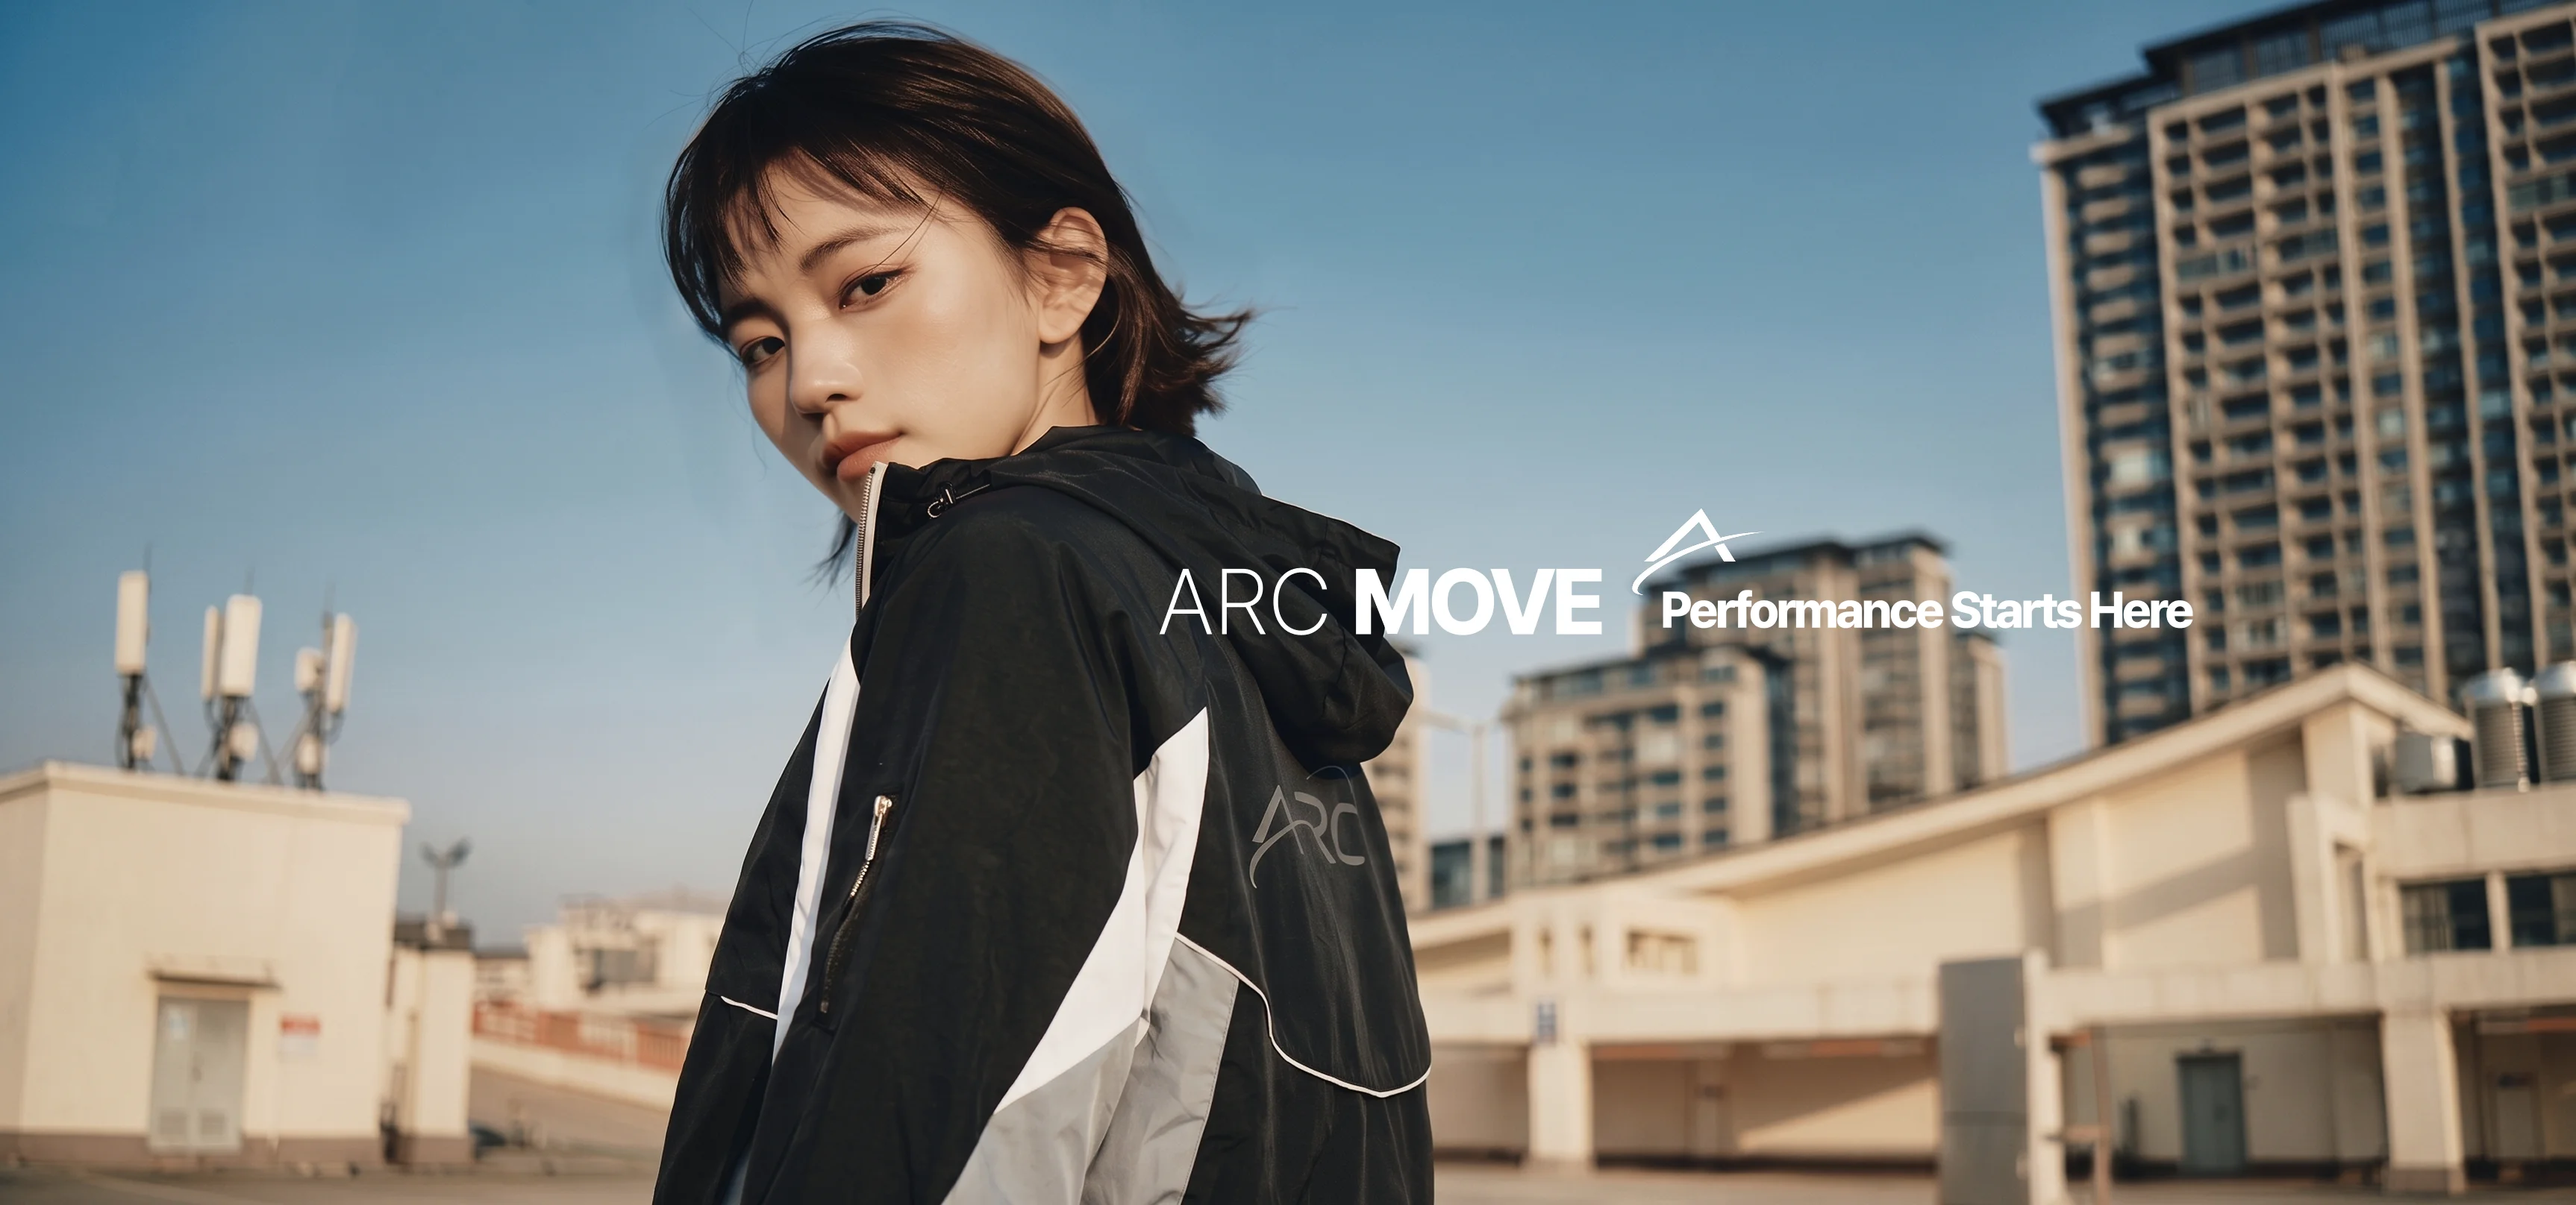
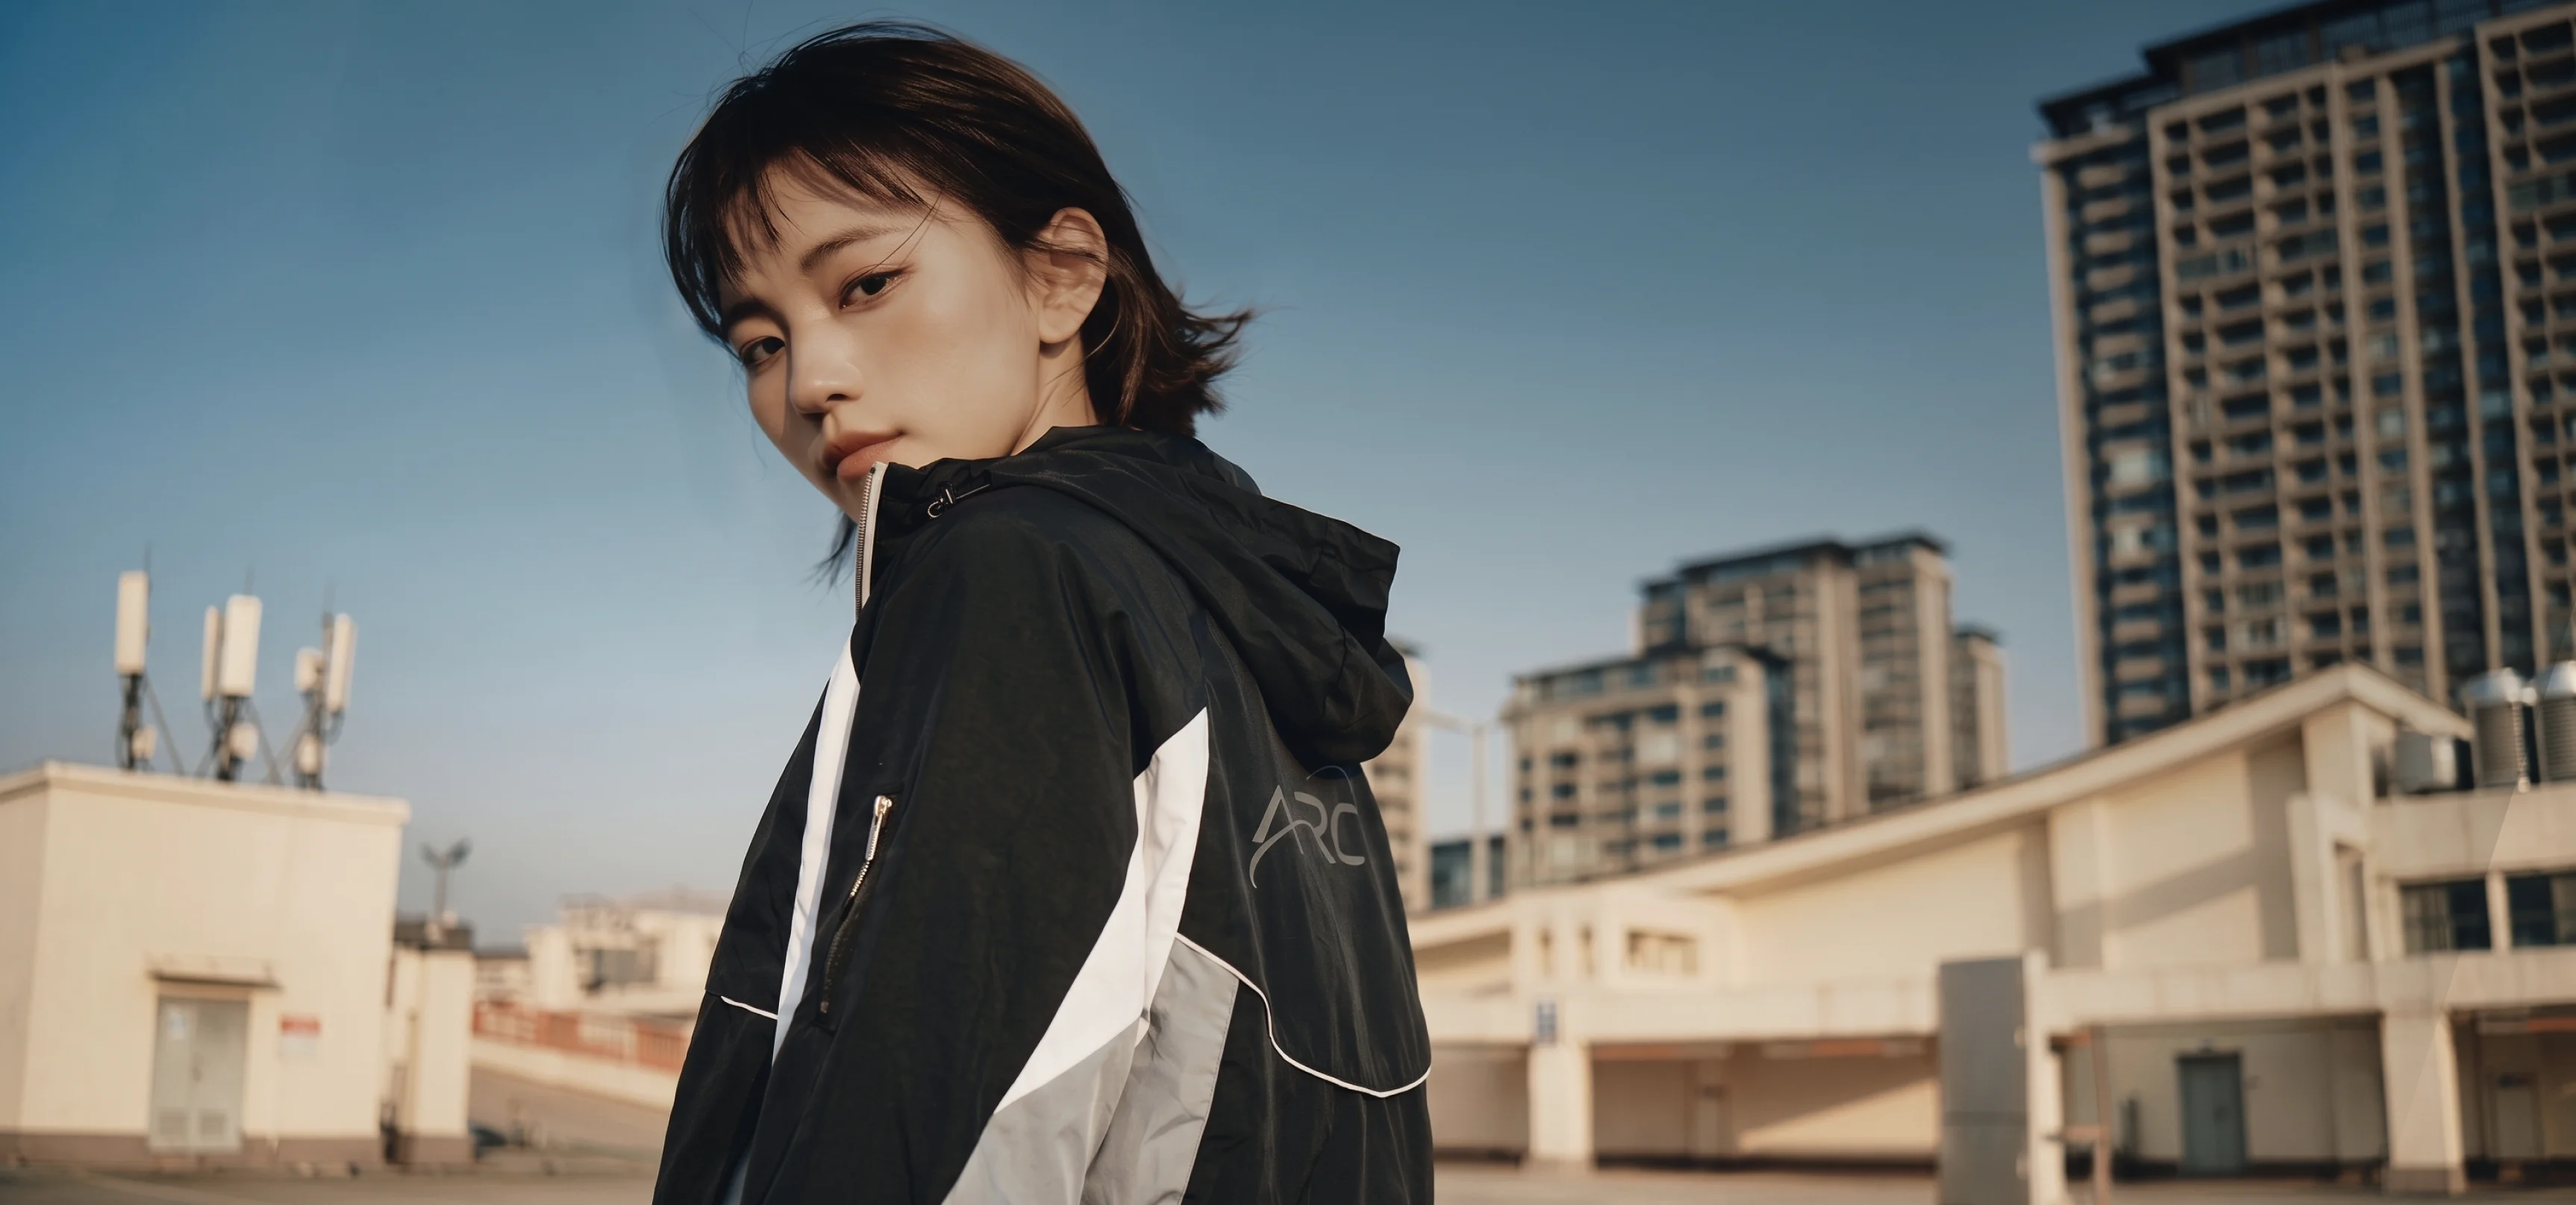
feat: 히어로 배너 모바일/태블릿 반응형 레이아웃 및 데스크톱 로고 락업 추가

Changed region(s): [[0.093, 0.0, 1.0, 0.7116]]

diff --git a/src/styles/hero.css b/src/styles/hero.css
@@ -130,7 +130,7 @@
   object-fit: cover;
   object-position: bottom;
   -webkit-mask-image: linear-gradient(to bottom, transparent 0%, #000 10%, #000 100%);
-  mask-image: linear-gradient(to bottom, transparent 0%, #000 70%, #000 100%);
+  mask-image: linear-gradient(to bottom, transparent 0%, #000 90%, #000 100%);
 }
 
 .hero__band-lead {
@@ -192,4 +192,318 @@
   font-size: 42px;
   font-weight: 700;
   line-height: 46px;
+}
+
+.hero__logo {
+  display: none;
+}
+
+/* Desktop brand lockup — positioned to match hero_main.webp's (soon-to-be-removed) baked-in text */
+.hero__logo-desktop {
+  position: absolute;
+  left: 555px;
+  top: 300px;
+  z-index: 5;
+  display: flex;
+  align-items: center;
+  gap: 14px;
+  color: #fff;
+}
+
+.hero__logo-desktop-brand {
+  font-size: 46px;
+  font-weight: 400;
+  letter-spacing: -0.01em;
+}
+
+.hero__logo-desktop-word {
+  margin-left: -8px;
+  font-size: 46px;
+  font-weight: 800;
+}
+
+.hero__logo-desktop-icon {
+  width: 46px;
+  height: 38px;
+}
+
+.hero__logo-desktop-tagline {
+  font-size: 26px;
+  font-weight: 700;
+}
+
+/* Desktop brand lockup — positioned to match hero_main_two.webp's (soon-to-be-removed) baked-in text */
+.hero__logo-slide2 {
+  position: absolute;
+  left: 80px;
+  top: 175px;
+  z-index: 5;
+  display: flex;
+  flex-direction: column;
+  align-items: flex-start;
+  gap: 6px;
+  color: #fff;
+}
+
+.hero__logo-slide2-icon {
+  width: 46px;
+  height: 38px;
+  margin-left: 130px;
+}
+
+.hero__logo-slide2-row {
+  display: flex;
+  align-items: center;
+  gap: 16px;
+}
+
+.hero__logo-slide2-word {
+  font-size: 46px;
+  font-weight: 800;
+  text-transform: uppercase;
+}
+
+.hero__logo-slide2-divider {
+  align-self: stretch;
+  width: 2px;
+  background: rgba(255, 255, 255, 0.6);
+}
+
+.hero__logo-slide2-tagline {
+  display: flex;
+  flex-direction: column;
+  margin: 0;
+  font-size: 20px;
+  font-weight: 500;
+  line-height: 1.25;
+  text-transform: uppercase;
+}
+
+/* Tablet + mobile: dedicated layout instead of the desktop scale-to-fit */
+@media (max-width: 1023px) {
+  .hero {
+    aspect-ratio: unset;
+  }
+
+  .hero__logo-desktop,
+  .hero__logo-slide2 {
+    display: none;
+  }
+
+  .hero__stage {
+    position: static;
+    width: 100%;
+    height: 100%;
+    transform: none !important;
+  }
+
+  .hero__bg {
+    width: 100%;
+  }
+
+  .hero__bg-slide:nth-child(2) {
+    inset: 0;
+    height: 100%;
+  }
+
+  .hero__bg-img {
+    left: 0;
+    top: 0;
+    width: 100%;
+    height: 100%;
+    max-width: none;
+    object-fit: cover;
+  }
+
+  .hero__logo {
+    display: flex;
+    position: absolute;
+    left: 50%;
+    z-index: 5;
+    flex-direction: column;
+    align-items: center;
+    gap: 6px;
+    color: #fff;
+    transform: translate(-50%, -50%);
+  }
+
+  .hero__logo-icon {
+    display: block;
+  }
+
+  .hero__logo-row {
+    display: flex;
+    align-items: center;
+    gap: 12px;
+  }
+
+  .hero__logo-word {
+    font-weight: 800;
+    text-transform: uppercase;
+  }
+
+  .hero__logo-tagline {
+    display: flex;
+    flex-direction: column;
+    margin: 0;
+    font-weight: 500;
+    line-height: 1.25;
+    text-transform: uppercase;
+  }
+
+  .hero__band-proof {
+    display: none;
+  }
+
+  .hero__band-sub {
+    left: auto;
+    margin: 0;
+    text-align: right;
+    transform: none;
+  }
+
+  .hero__dots {
+    right: 16px;
+    bottom: 16px;
+    gap: 8px;
+  }
+}
+
+@media (max-width: 767px) {
+  .hero {
+    height: 520px;
+    background: #000;
+  }
+
+  .hero__bg {
+    height: 100%;
+  }
+
+  .hero__bg-img {
+    object-position: 35% 15%;
+  }
+
+  .hero__bg-slide:nth-child(2) .hero__bg-img {
+    top: 0;
+    left: 0;
+    width: 100%;
+    height: 100%;
+    object-position: center top;
+  }
+
+  .hero__logo {
+    top: 45%;
+  }
+
+  .hero__logo-icon {
+    width: 28px;
+    height: 23px;
+  }
+
+  .hero__logo-word {
+    font-size: 26px;
+    line-height: 26px;
+  }
+
+  .hero__logo-divider {
+    height: 30px;
+  }
+
+  .hero__logo-tagline {
+    font-size: 11px;
+    letter-spacing: 0.02em;
+  }
+
+  .hero__band {
+    height: 230px;
+    clip-path: polygon(0 42%, 100% 10%, 100% 100%, 0 100%);
+  }
+
+  .hero__band-lead {
+    left: 20px;
+    bottom: 22px;
+    font-size: 26px;
+    line-height: 30px;
+    letter-spacing: 0;
+  }
+
+  .hero__band-sub {
+    right: 20px;
+    bottom: 16px;
+    font-size: 12px;
+    line-height: 16px;
+  }
+
+  .hero__dots {
+    bottom: 40px;
+  }
+}
+
+@media (min-width: 768px) and (max-width: 1023px) {
+  .hero {
+    height: 560px;
+    background: #000;
+  }
+
+  .hero__bg {
+    height: 100%;
+  }
+
+  .hero__bg-img {
+    object-position: center 100%;
+  }
+
+  .hero__bg-slide:nth-child(2) .hero__bg-img {
+    top: 0;
+    left: 0;
+    width: 100%;
+    height: 100%;
+    object-position: center top;
+  }
+
+  .hero__logo {
+    top: 47%;
+  }
+
+  .hero__logo-icon {
+    width: 34px;
+    height: 28px;
+  }
+
+  .hero__logo-word {
+    font-size: 30px;
+    line-height: 30px;
+  }
+
+  .hero__logo-divider {
+    height: 34px;
+  }
+
+  .hero__logo-tagline {
+    font-size: 13px;
+    letter-spacing: 0.02em;
+  }
+
+  .hero__band {
+    height: 270px;
+    clip-path: polygon(0 40%, 100% 12%, 100% 100%, 0 100%);
+  }
+
+  .hero__band-lead {
+    left: 32px;
+    bottom: 30px;
+    font-size: 32px;
+    line-height: 36px;
+  }
+
+  .hero__band-sub {
+    right: 32px;
+    bottom: 22px;
+    font-size: 14px;
+    line-height: 18px;
+  }
+
+  .hero__dots {
+    bottom: 48px;
+  }
 }

diff --git a/src/components/home/Hero.jsx b/src/components/home/Hero.jsx
@@ -2,10 +2,12 @@ import { useEffect, useRef, useState } from 'react';
 
 import heroMain from '@/assets/home/hero_main.webp';
 import heroMainTwo from '@/assets/home/hero_main_two.webp';
+import Logo from '@/assets/home/Logo.svg';
 import mainBanner2 from '@/assets/home/main_banner_2.webp';
 import '@/styles/hero.css';
 
 const BASE_WIDTH = 1440;
+const SCALE_BREAKPOINT = 1024;
 const SLIDE_DURATION = 5000;
 const SWIPE_THRESHOLD = 40;
 const DOT_R = 5;
@@ -24,7 +26,10 @@ function useFitScale(baseWidth) {
     const el = ref.current;
     if (!el) return undefined;
 
-    const update = () => setScale(el.clientWidth / baseWidth);
+    const update = () => {
+      const width = el.clientWidth;
+      setScale(width < SCALE_BREAKPOINT ? 1 : width / baseWidth);
+    };
     update();
 
     const observer = new ResizeObserver(update);
@@ -96,6 +101,43 @@ export default function Hero() {
             </div>
           ))}
         </div>
+
+        {/* Mobile/tablet brand lockup */}
+        <div className="hero__logo">
+          <img alt="" className="hero__logo-icon" src={Logo} />
+          <div className="hero__logo-row">
+            <span className="hero__logo-word">MOVE</span>
+            <p className="hero__logo-tagline">
+              <span>PERFORMANCE</span>
+              <span>STARTS HERE</span>
+            </p>
+          </div>
+        </div>
+
+        {/* Desktop brand lockup — matches slide 1 (hero_main.webp) once its baked-in text is removed */}
+        {current === 0 && (
+          <div className="hero__logo-desktop">
+            <span className="hero__logo-desktop-brand">ARC</span>
+            <span className="hero__logo-desktop-word">MOVE</span>
+            <img alt="" className="hero__logo-desktop-icon" src={Logo} />
+            <span className="hero__logo-desktop-tagline">Performance Starts Here</span>
+          </div>
+        )}
+
+        {/* Desktop brand lockup — matches slide 2 (hero_main_two.webp) once its baked-in text is removed */}
+        {current === 1 && (
+          <div className="hero__logo-slide2">
+            <img alt="" className="hero__logo-slide2-icon" src={Logo} />
+            <div className="hero__logo-slide2-row">
+              <span className="hero__logo-slide2-word">MOVE</span>
+              <span className="hero__logo-slide2-divider" aria-hidden="true" />
+              <p className="hero__logo-slide2-tagline">
+                <span>PERFORMANCE</span>
+                <span>STARTS HERE</span>
+              </p>
+            </div>
+          </div>
+        )}
 
         <div className="hero__dots">
           {!reducedMotion && (
